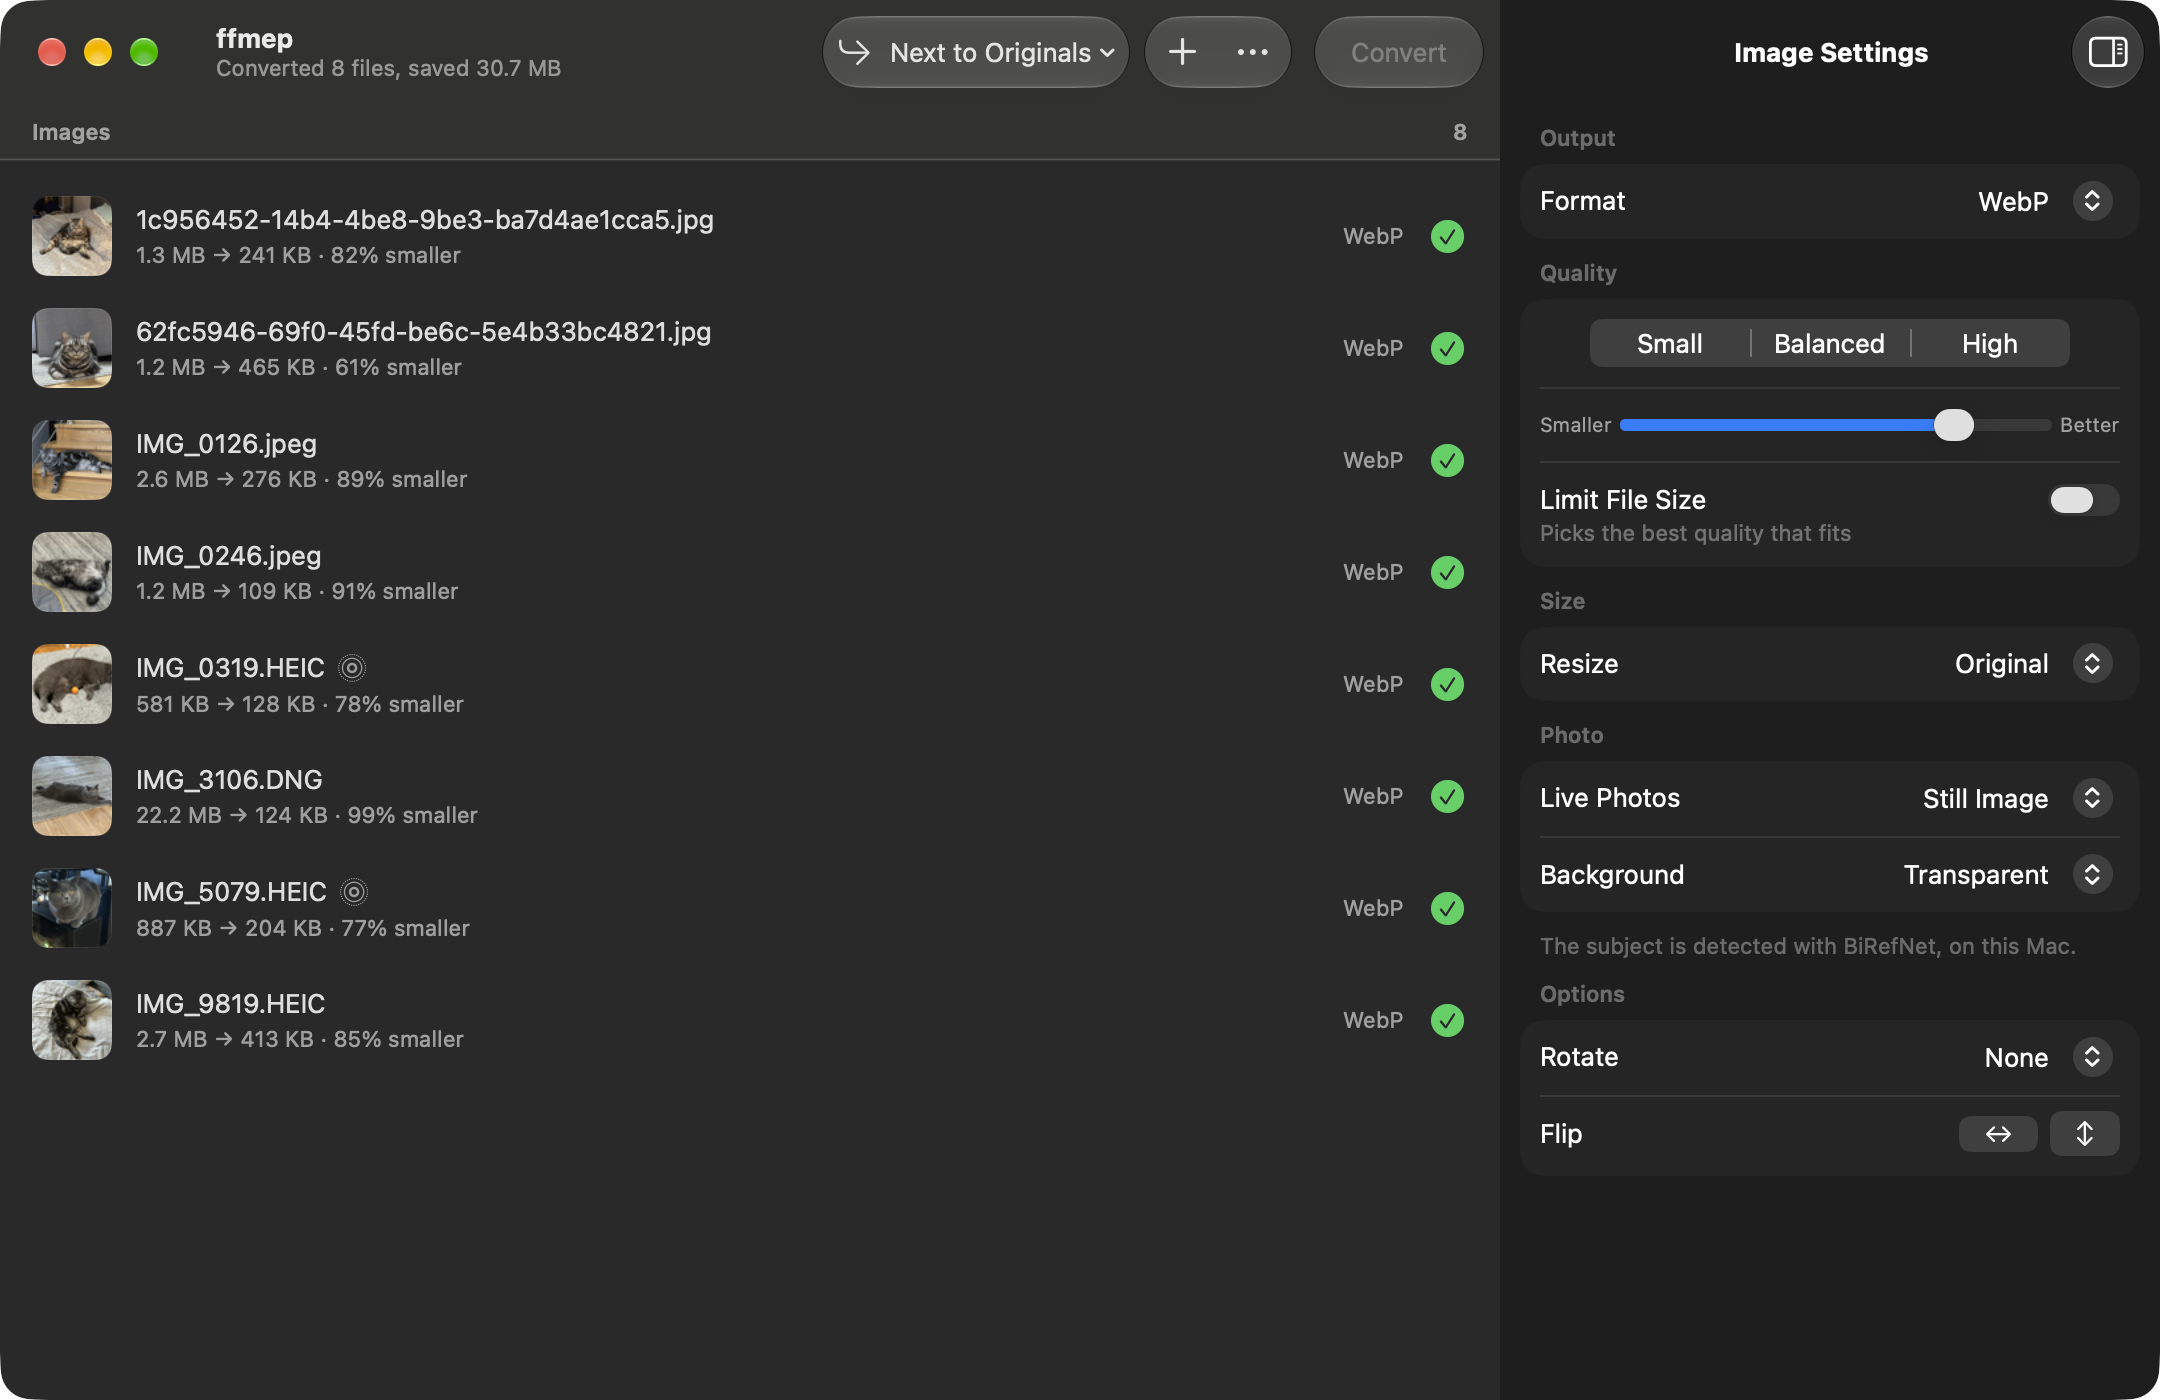
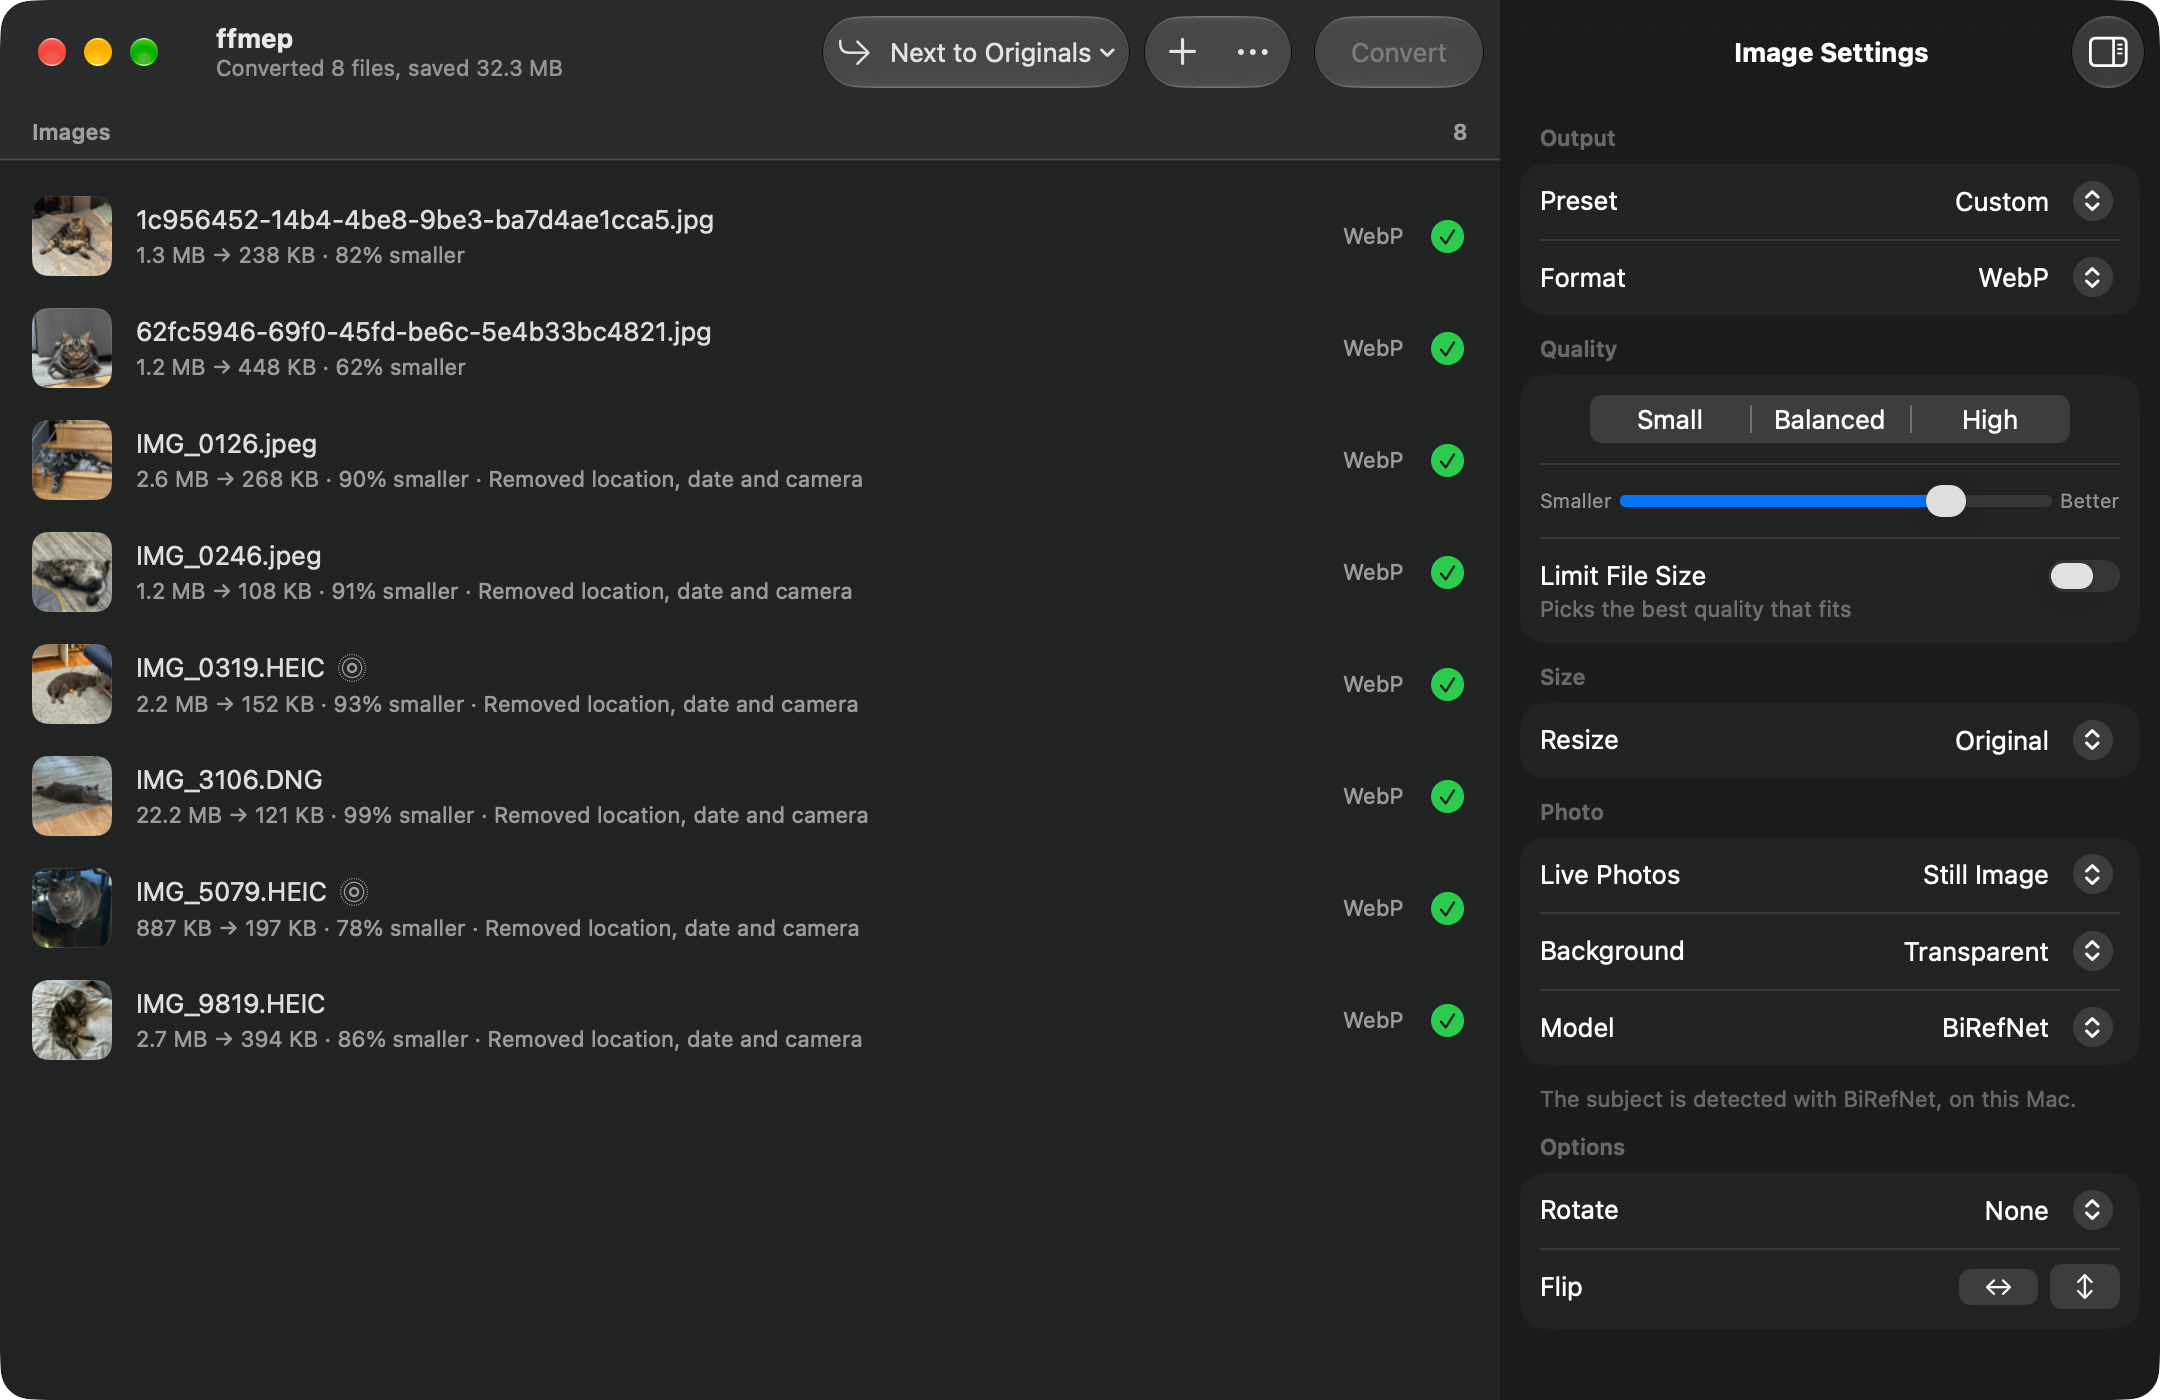
Retake the README screenshots
They show the Preset and Model rows and the removed-metadata notes,
with the caption and alt text updated to the new sizes.

diff --git a/README.md b/README.md
@@ -18,13 +18,13 @@
 
 <picture>
   <source media="(prefers-color-scheme: dark)" srcset="docs/window-dark.png">
-  <img src="docs/window-light.png" width="820" alt="The ffmep window after converting eight cat photos to WebP with transparent backgrounds. Each row shows the old and new size, like 22.2 MB to 124 KB for a DNG, and the inspector on the right holds the format, quality, size, Live Photo and background settings.">
+  <img src="docs/window-light.png" width="820" alt="The ffmep window after converting eight cat photos to WebP with transparent backgrounds. Each row shows the old and new size, like 22.2 MB to 121 KB for a DNG, and most rows note the location, date and camera details WebP left out. The inspector on the right holds the preset, format, quality, size, Live Photo, background and model settings.">
 </picture>
 
 </div>
 
 <p align="center">
-  <sub>Eight photos in, eight transparent WebPs out, 30.7 MB lighter. JPEG, HEIC and a RAW DNG<br>
+  <sub>Eight photos in, eight transparent WebPs out, 32.3 MB lighter. JPEG, HEIC and a RAW DNG<br>
   all in one batch, cut out with BiRefNet on this Mac.</sub>
 </p>
 
